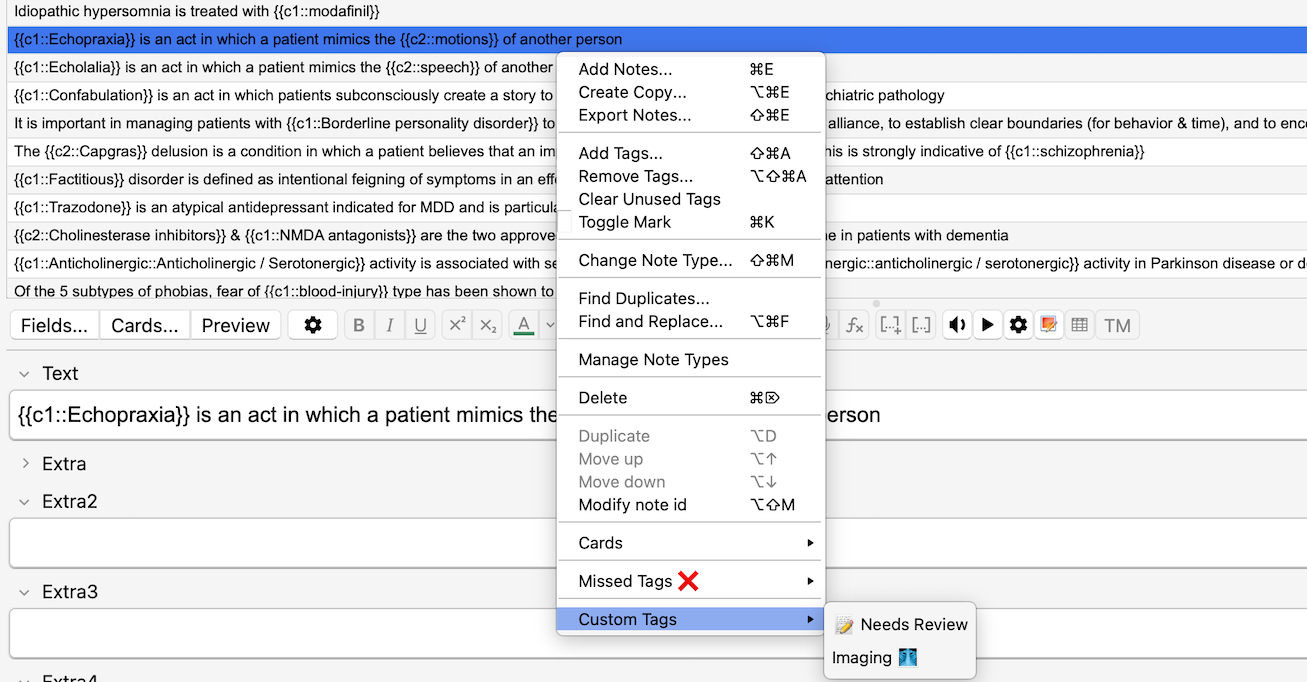
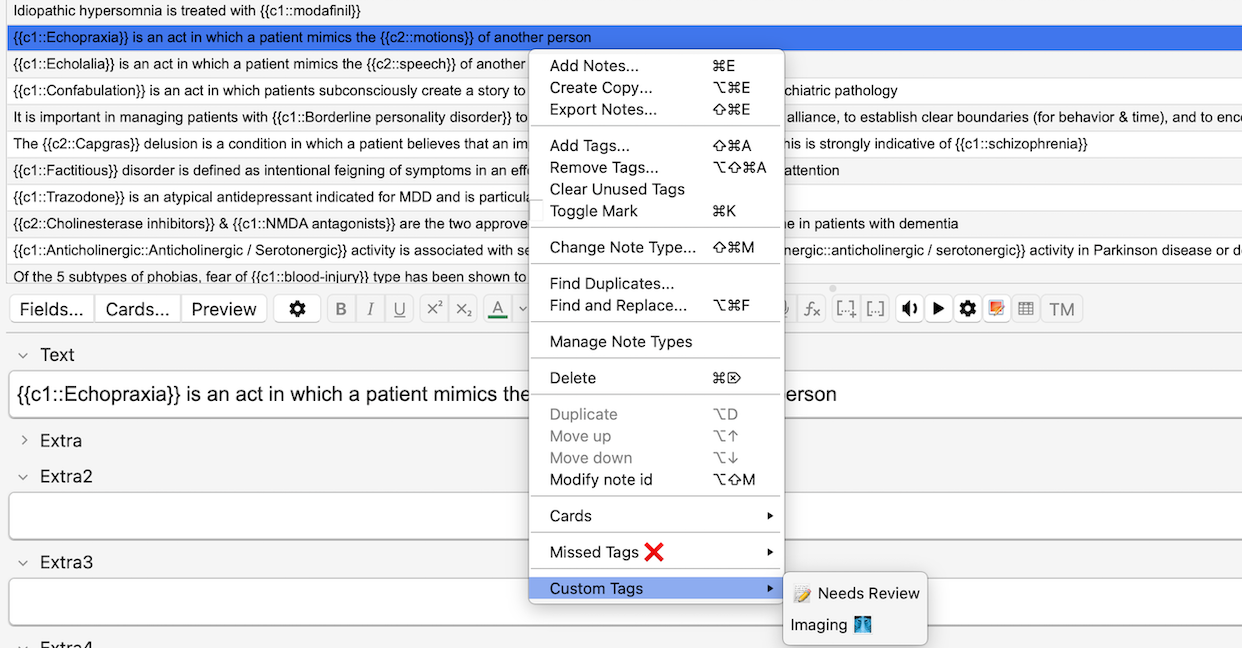
png fix

diff --git a/web-resources/description_anki-web.md b/web-resources/description_anki-web.md
@@ -55,9 +55,16 @@ Example tags created by default may look like:
 #Custom::correct_marked
 ```
 
-<div >
-<img src="custom_tag_menu_ex.png" style="padding: 12px 10vw; object-fit:contain; width: 100%; max-width: 100vw">
+<div style="text-align:center; margin: 12px 0;">
+  <img
+    src="https://raw.githubusercontent.com/sharperdragon/_friend_pack/refs/heads/main/web-resources/missed_tag_menu_ex.png"
+    alt="Missed tag menu example"
+    style="display:block; width:85%; max-width:900px; height:auto; margin:0 auto; border:1px solid #ddd; border-radius:8px;">
 </div>
+
+<br>
+
+---
 
 ## Custom Tags bonus menu
 
@@ -68,6 +75,17 @@ This is useful for personal workflow tags such as:
 #Custom::Review
 #Custom::Imaging
 ```
+
+<div style="text-align:center; margin: 12px 0;">
+  <img
+    src="https://raw.githubusercontent.com/sharperdragon/_friend_pack/refs/heads/main/web-resources/custom_tag_menu_ex.png"
+    alt="Missed tag menu example"
+    style="display:block; width:85%; max-width:900px; height:auto; margin:0 auto; border:1px solid #ddd; border-radius:8px;">
+</div>
+
+<br>
+
+---
 
 ## Configurable
 
